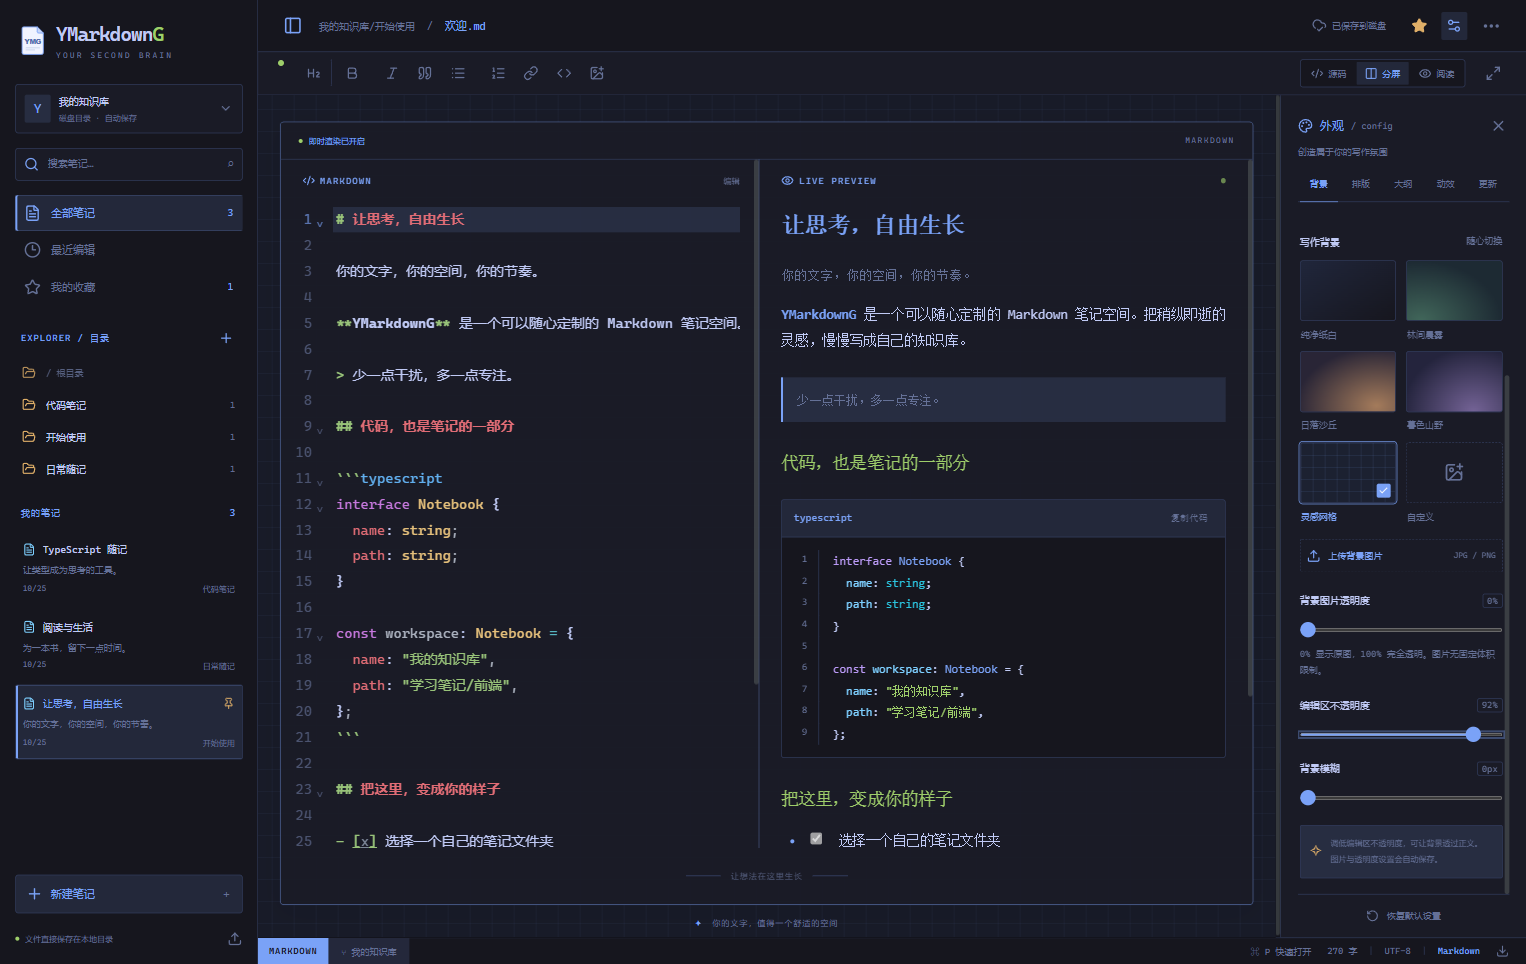
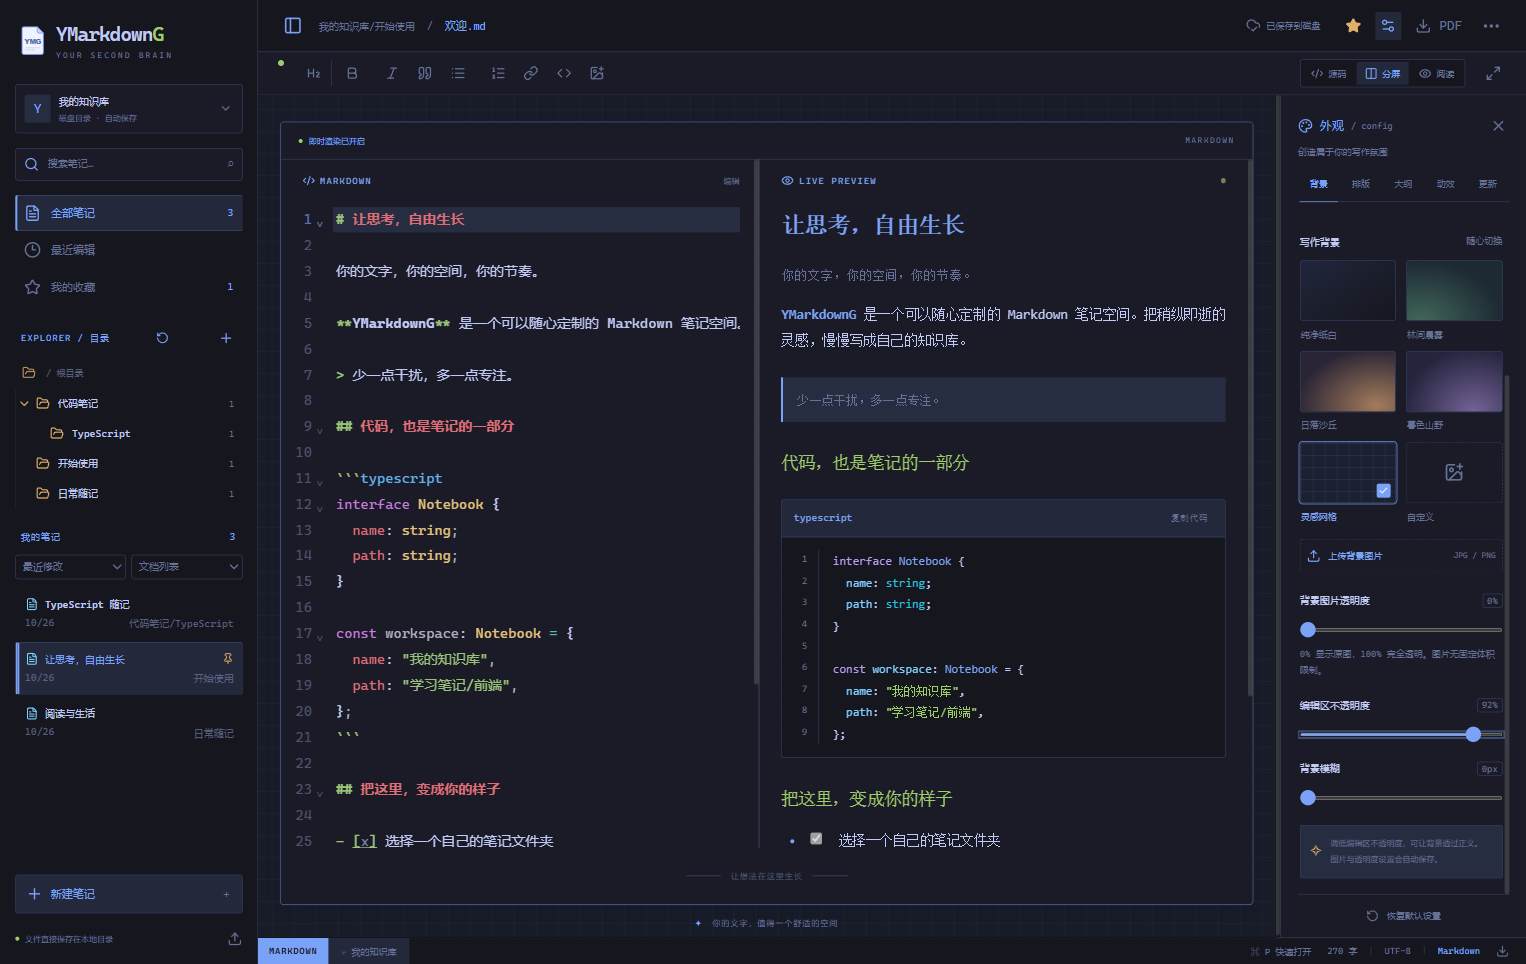
chore: prepare v0.3.0 with usage docs and updated desktop previews

diff --git a/src/main.tsx b/src/main.tsx
@@ -581,10 +581,11 @@ function App() {
   }, [workspace, folderBusy, renameBusy]);
   async function openWorkspace(reconnect = false, libraryId?: string) {
     if (window.desktop) {
-      await refreshWorkspace();
+      if (switchingWorkspace.current) return;
+      const refresh = refreshWorkspace();
       switchingWorkspace.current = true;
       try {
-        await refreshTask.current;
+        await refresh;
         if (workspace) {
           clearTimeout(diskTimer.current);
           await workspace.save(notesRef.current);

diff --git a/README.md b/README.md
@@ -35,26 +35,30 @@ Neovim 的视觉风格 · 即时预览 · 你的本地文件
 
 ### 你的目录，就是笔记的目录
 
-右键目录即可新建子目录、创建笔记、重命名、移动或删除。拖动笔记和目录，也能重新整理知识库。
+VS Code 风格的折叠目录树，搭配可排序的文档列表与摘要卡片。右键笔记或目录即可重命名、移动或删除；拖动也能整理层级。
 
 <p align="center"><img src="docs/images/folder-menu.png" width="760" alt="目录右键菜单：创建、重命名、移动与删除" /></p>
 
-文件以普通 `.md` 格式存储在你选择的文件夹中。删除会先保留恢复副本，检测到外部编辑时暂停覆盖。
+文件以普通 `.md` 格式保留在你收录的原文件夹中，可收录多个文件夹并切换。外部新增、修改、删除会自动刷新；同时编辑时，保留磁盘版本并把本地编辑另存到“冲突副本”目录。删除文件会先保留恢复副本。
+
+### 一键导出 PDF
+
+点击编辑器右上角的 **PDF**，选择保存位置即可。使用独立的白底 A4 排版，保留中文、表格和代码高亮，自动分页；自定义写作背景不会印入 PDF。
 
 ### 把这里，变成你的样子
 
-| 书写与阅读                  | 外观与氛围                       |
-| :-------------------------- | :------------------------------- |
-| 源码、分屏与阅读模式        | 深浅主题、自选主题色             |
-| 即时渲染 Markdown           | 自定义背景，无固定体积限制       |
-| 代码高亮、行号和复制        | 图片透明度、编辑区不透明度与模糊 |
-| 搜索、大纲与快速打开        | 字体、字号、行高与页面宽度       |
-| Markdown 导入导出和自动保存 | 专注模式、可调光标与输入动效     |
+| 书写与阅读                    | 外观与氛围                       |
+| :---------------------------- | :------------------------------- |
+| 源码、分屏与阅读模式          | 深浅主题、自选主题色             |
+| 即时渲染 Markdown             | 自定义背景，无固定体积限制       |
+| 代码高亮、行号和复制          | 图片透明度、编辑区不透明度与模糊 |
+| 搜索、大纲与快速打开          | 字体、字号、行高与页面宽度       |
+| Markdown / PDF 导出和自动保存 | 专注模式、可调光标与输入动效     |
 
 ## 开始使用
 
 1. 在 **[Releases](https://github.com/Okazaki-Yumemi/YMarkdownG/releases/latest)** 下载适合自己系统的版本。
-2. 从左上角选择笔记空间。首次启动默认打开系统“文档”下的 `YMarkdownG` 文件夹。
+2. 在左上角菜单中点击 **收录文件夹…**，选择需要管理的目录。可重复收录不同位置；首次启动默认打开系统“文档”下的 `YMarkdownG`。
 3. 右键目录创建子目录或笔记，开始书写。内容自动保存到磁盘。
 
 | 系统                | 下载哪个文件                                        | 更新方式                                 |
@@ -62,7 +66,7 @@ Neovim 的视觉风格 · 即时预览 · 你的本地文件
 | Windows x64         | `Setup-x64.exe` 安装版，或 `Windows-x64.exe` 便携版 | 安装版支持应用内更新；便携版提供新版提醒 |
 | macOS Apple Silicon | `macOS-arm64.dmg`                                   | 下载新版替换；同时提供 ZIP               |
 | macOS Intel         | `macOS-x64.dmg`                                     | 下载新版替换；同时提供 ZIP               |
-| Linux x64           | `Linux-x86_64.AppImage`，添加执行权限后运行            | AppImage 支持应用内更新                  |
+| Linux x64           | `Linux-x86_64.AppImage`，添加执行权限后运行         | AppImage 支持应用内更新                  |
 
 不需要安装 Node.js，也不需要打开浏览器。更新入口在 **外观 → 更新**，背景和动画在同一面板中调整。
 
@@ -85,7 +89,9 @@ Neovim 的视觉风格 · 即时预览 · 你的本地文件
 - 当前参考 Neovim 视觉风格，尚未实现 Vim 模态操作或 Typora 式原位编辑。
 - Windows 和 macOS 发行包暂未代码签名，macOS 尚未公证，该版本 macOS 更新采用手动下载。
 - 跨版本自动安装流程尚未完成真实升级的端到端验证。
-- 尚无云同步、外部修改自动合并或插件系统；Markdown 相对路径图片尚未映射到笔记目录。
+- 外部变化每约 3 秒及窗口重新获得焦点时刷新；冲突会保留双方版本，不执行逐行文本合并。
+- 当前以已收录的文件夹为管理单位，尚无 Zotero 式虚拟分类、多标签或云同步。
+- Markdown 相对路径图片尚未映射到笔记目录，PDF 同样暂不支持这些相对路径图片。
 - 磁盘笔记收藏目前仅在本次打开期间保留。空间最多读取 2000 篇、24 层目录，单篇笔记上限 5 MB。
 - 完整实现和限制见 [开发文档](docs/DEVELOPMENT.md)。
 

diff --git a/.github/release-notes/v0.3.0.md b/.github/release-notes/v0.3.0.md
@@ -1,0 +1,25 @@
+## YMarkdownG v0.3.0
+
+这次更新完善本地 Markdown 文档管理，并增加 PDF 导出。
+
+### 新功能
+
+- 笔记右键菜单：重命名真实文件、移动、删除，支持键盘菜单键 / Shift+F10。
+- VS Code 风格折叠目录树，按收录位置记住折叠状态，保留拖放整理。
+- 更紧凑的文档列表，可按标题、目录、修改时间排序，也可切回摘要卡片。
+- 工具栏一键导出 PDF：原生保存对话框、白底 A4、中文、表格、代码高亮及自动分页。
+- 选择性收录多个原位置文件夹，保存登记、切换和恢复；移除收录不会删除原文件。
+
+### 外部修改修复
+
+每约 3 秒及窗口重新获得焦点时刷新外部新增、修改、重命名与删除。按上次读取内容、本地编辑和磁盘当前内容比较；双方同时修改时保留磁盘版本，本地编辑另存到 `冲突副本/`，并显示提示。刷新失败保留编辑内容并提供重试入口。
+
+### 下载与说明
+
+- Windows x64：Setup 安装版 / Windows 便携版。
+- macOS：Apple Silicon arm64 / Intel x64，提供 DMG 与 ZIP。
+- Linux x64：AppImage。另附 SHA256SUMS 校验文件。
+- Windows、macOS 暂未开发者签名，macOS 尚未公证。macOS 及 Windows 便携版使用手动下载更新；跨版本自动安装尚未完成端到端实测。
+- 当前按收录文件夹管理，尚无虚拟分类或多标签。冲突保留副本，不做逐行合并；相对路径图片暂不支持预览及 PDF 导出。
+
+各项功能分别提交，升级不改变普通 Markdown 文件格式。
